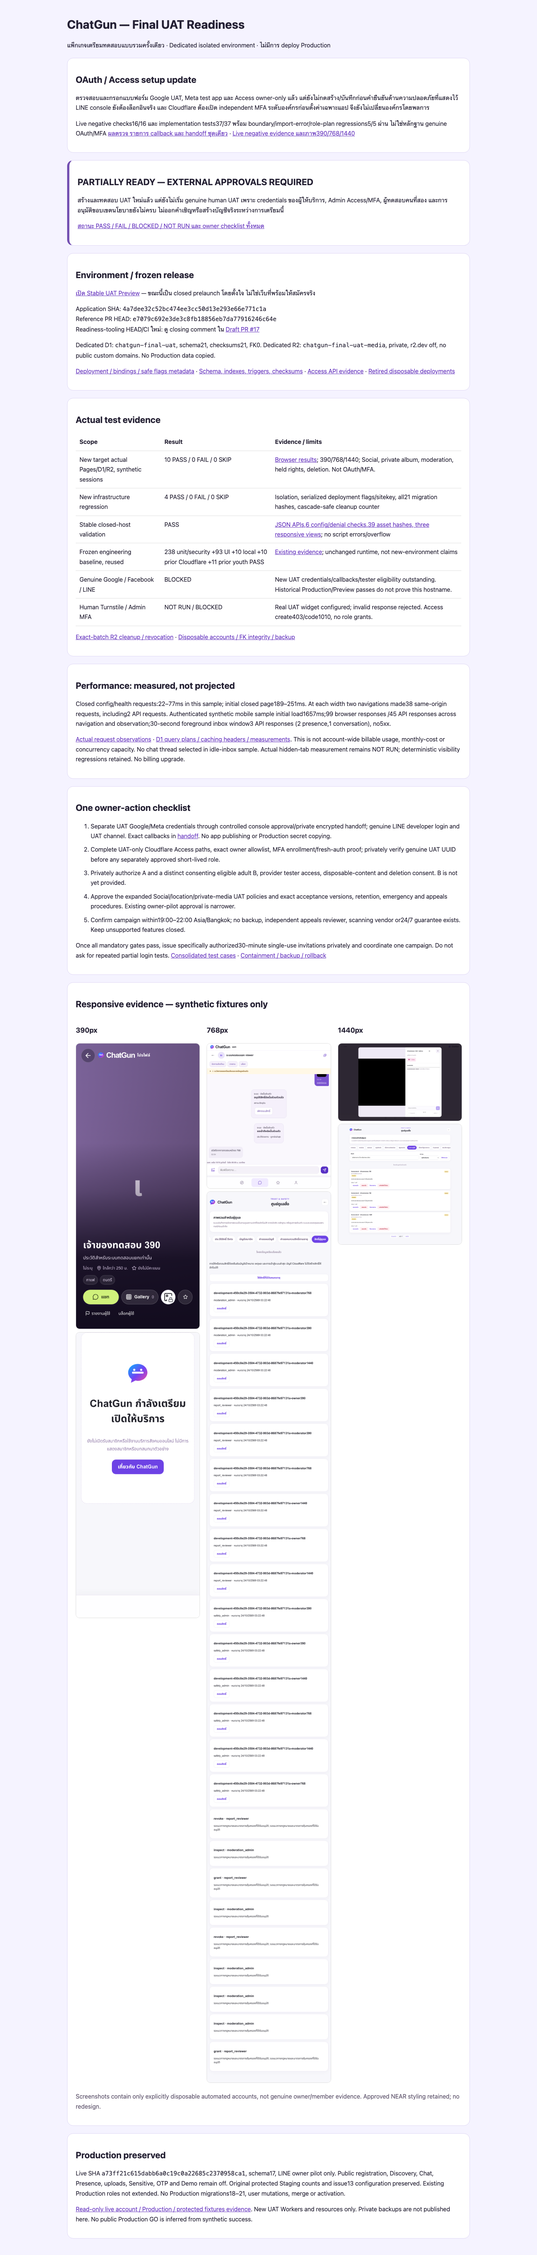
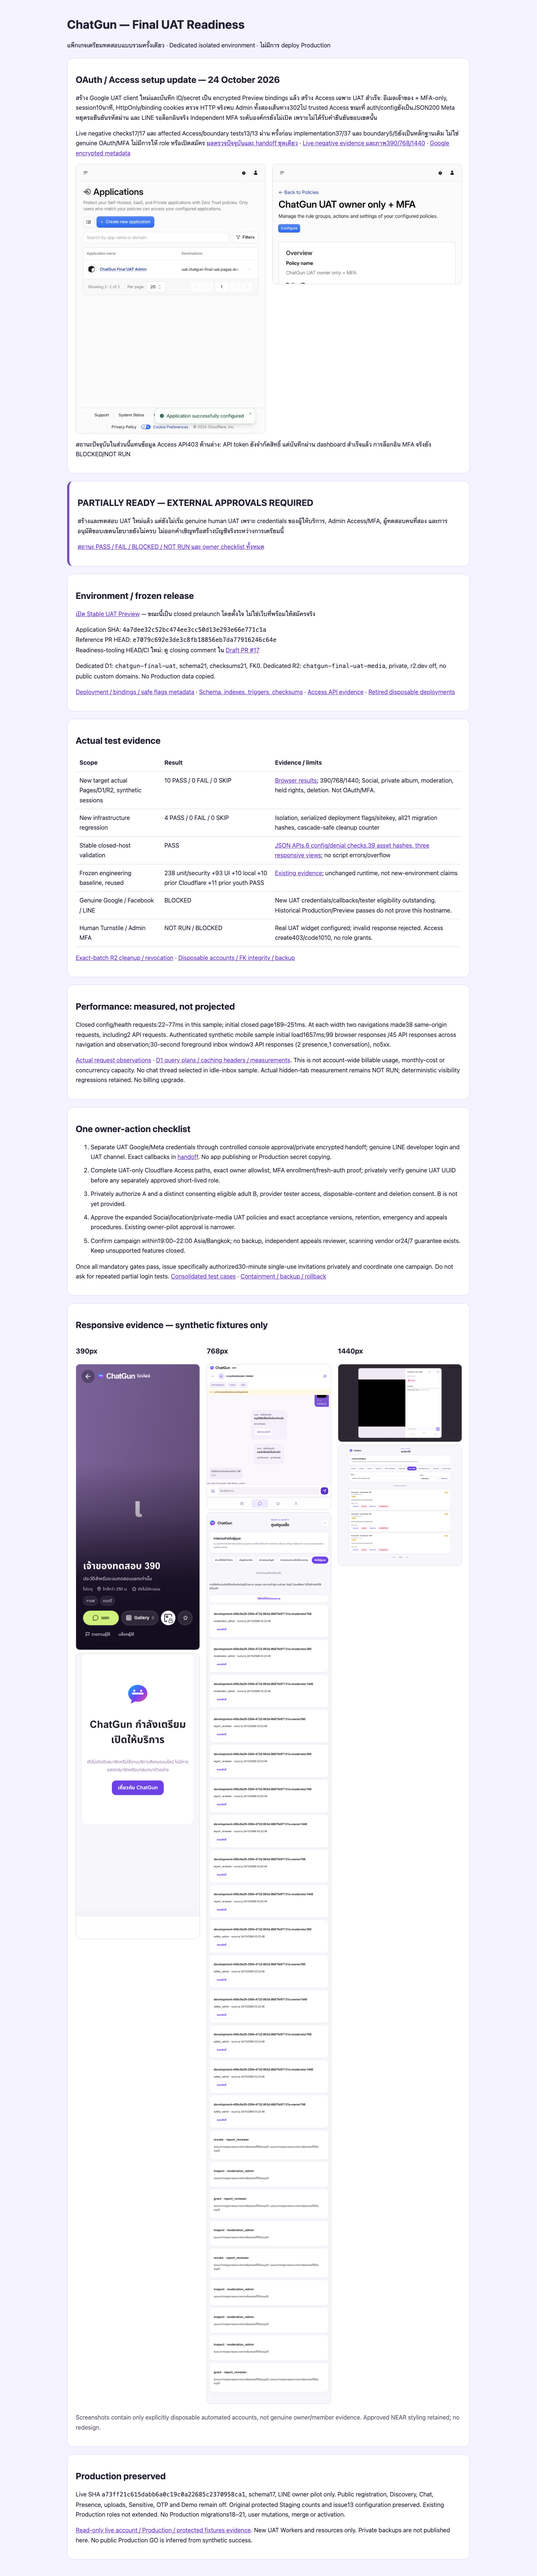
Provision isolated Google UAT credentials and owner MFA Access boundary

Changed region(s): [[0.125, 0.0, 0.875, 0.9338], [0.125, 0.9338, 0.8125, 0.996]]

diff --git a/docs/final-uat/readiness-report.html b/docs/final-uat/readiness-report.html
@@ -1,6 +1,6 @@
 <!doctype html><html lang="th"><meta charset="utf-8"><meta name="viewport" content="width=device-width,initial-scale=1"><title>ChatGun · Final UAT Readiness</title><style>body{margin:0;background:#f5f3ff;color:#242033;font:16px/1.65 system-ui,sans-serif}main{max-width:1080px;margin:auto;padding:24px}section{background:white;border:1px solid #ddd5f4;border-radius:16px;padding:22px;margin:20px 0}h1,h2{line-height:1.3}a{color:#6534be;overflow-wrap:anywhere}code{overflow-wrap:anywhere}img{max-width:100%;border:1px solid #ddd;border-radius:10px}.status{border-left:6px solid #7450b2}table{border-collapse:collapse;width:100%}td,th{text-align:left;padding:10px;border-bottom:1px solid #ddd;vertical-align:top}.scroll{overflow:auto}.images{display:grid;grid-template-columns:repeat(auto-fit,minmax(220px,1fr));gap:20px}.note{color:#655b72}li{margin:10px 0}</style><main>
 <h1>ChatGun — Final UAT Readiness</h1><p>แพ็กเกจเตรียมทดสอบแบบรวมครั้งเดียว · Dedicated isolated environment · ไม่มีการ deploy Production</p>
-<section><h2>OAuth / Access setup update</h2><p>ตรวจสอบและกรอกแบบฟอร์ม Google UAT, Meta test app และ Access owner-only แล้ว แต่ยังไม่กดสร้าง/บันทึกก่อนคำยืนยันด้านความปลอดภัยที่แสดงไว้ LINE console ยังต้องล็อกอินจริง และ Cloudflare ต้องเปิด independent MFA ระดับองค์กรก่อนตั้งค่าเฉพาะแอป จึงยังไม่เปลี่ยนองค์กรโดยพลการ</p><p>Live negative checks16/16 และ implementation tests37/37 พร้อม boundary/import-error/role-plan regressions5/5 ผ่าน ไม่ใช่หลักฐาน genuine OAuth/MFA <a href="oauth-access-setup/status.md">ผลตรวจ รายการ callback และ handoff ชุดเดียว</a> · <a href="oauth-access-setup/live-negative-security.json">Live negative evidence และภาพ390/768/1440</a></p></section>
+<section><h2>OAuth / Access setup update — 24 October 2026</h2><p>สร้าง Google UAT client ใหม่และบันทึก ID/secret เป็น encrypted Preview bindings แล้ว สร้าง Access เฉพาะ UAT สำเร็จ: อีเมลเจ้าของ + MFA-only, session10นาที, HttpOnly/binding cookies ตรวจ HTTP จริงพบ Admin ทั้งสองเส้นทาง302ไป trusted Access ขณะที่ auth/configยังเป็นJSON200 Meta หยุดรอยืนยันรหัสผ่าน และ LINE รอล็อกอินจริง Independent MFA ระดับองค์กรยังไม่เปิด เพราะไม่ได้รับคำยืนยันขอบเขตนั้น</p><p>Live negative checks17/17 และ affected Access/boundary tests13/13 ผ่าน ครั้งก่อน implementation37/37 และ boundary5/5ยังเป็นหลักฐานเดิม ไม่ใช่ genuine OAuth/MFA ไม่มีการให้ role หรือเปิดสมัคร <a href="oauth-access-setup/status.md">ผลตรวจปัจจุบันและ handoff ชุดเดียว</a> · <a href="oauth-access-setup/live-negative-security.json">Live negative evidence และภาพ390/768/1440</a> · <a href="oauth-access-setup/google-credential-metadata.json">Google encrypted metadata</a></p><div class="images"><img alt="Created dedicated UAT Access application" src="oauth-access-setup/access-application-created.jpg"><img alt="Saved owner-only MFA policy" src="oauth-access-setup/access-policy-mfa-only.jpg"></div><p>สถานะปัจจุบันในส่วนนี้แทนข้อมูล Access API403 ด้านล่าง: API token ยังจำกัดสิทธิ์ แต่บันทึกผ่าน dashboard สำเร็จแล้ว การล็อกอิน MFA จริงยัง BLOCKED/NOT RUN</p></section>
 <section class="status"><h2>PARTIALLY READY — EXTERNAL APPROVALS REQUIRED</h2><p>สร้างและทดสอบ UAT ใหม่แล้ว แต่ยังไม่เริ่ม genuine human UAT เพราะ credentials ของผู้ให้บริการ, Admin Access/MFA, ผู้ทดสอบคนที่สอง และการอนุมัติขอบเขตนโยบายยังไม่ครบ ไม่ออกคำเชิญหรือสร้างบัญชีจริงระหว่างการเตรียมนี้</p><p><a href="readiness-matrix.md">สถานะ PASS / FAIL / BLOCKED / NOT RUN และ owner checklist ทั้งหมด</a></p></section>
 <section><h2>Environment / frozen release</h2><p><a href="https://uat.chatgun-final-uat.pages.dev">เปิด Stable UAT Preview</a> — ขณะนี้เป็น closed prelaunch โดยตั้งใจ ไม่ใช่เว็บที่พร้อมให้สมัครจริง</p><p>Application SHA: <code>4a7dee32c52bc474ee3cc50d13e293e66e771c1a</code><br>Reference PR HEAD: <code>e7079c692e3de3c8fb18856eb7da77916246c64e</code><br>Readiness-tooling HEAD/CI ใหม่: ดู closing comment ใน <a href="https://github.com/Nattano-CDS/chatgun/pull/17">Draft PR #17</a></p><p>Dedicated D1: <code>chatgun-final-uat</code>, schema21, checksums21, FK0. Dedicated R2: <code>chatgun-final-uat-media</code>, private, r2.dev off, no public custom domains. No Production data copied.</p><p><a href="environment.json">Deployment / bindings / safe flags metadata</a> · <a href="schema-verification.json">Schema, indexes, triggers, checksums</a> · <a href="access-verification.json">Access API evidence</a> · <a href="deployment-retirement.json">Retired disposable deployments</a></p></section>
 <section><h2>Actual test evidence</h2><div class="scroll"><table><tr><th>Scope</th><th>Result</th><th>Evidence / limits</th></tr><tr><td>New target actual Pages/D1/R2, synthetic sessions</td><td>10 PASS / 0 FAIL / 0 SKIP</td><td><a href="full-system-cloud-browser.json">Browser results</a>; 390/768/1440; Social, private album, moderation, held rights, deletion. Not OAuth/MFA.</td></tr><tr><td>New infrastructure regression</td><td>4 PASS / 0 FAIL / 0 SKIP</td><td>Isolation, serialized deployment flags/sitekey, all21 migration hashes, cascade-safe cleanup counter</td></tr><tr><td>Stable closed-host validation</td><td>PASS</td><td><a href="http-browser-verification.json">JSON APIs,6 config/denial checks,39 asset hashes, three responsive views</a>; no script errors/overflow</td></tr><tr><td>Frozen engineering baseline, reused</td><td>238 unit/security +93 UI +10 local +10 prior Cloudflare +11 prior youth PASS</td><td><a href="../development-completion/test-summary.json">Existing evidence</a>; unchanged runtime, not new-environment claims</td></tr><tr><td>Genuine Google / Facebook / LINE</td><td>BLOCKED</td><td>New UAT credentials/callbacks/tester eligibility outstanding. Historical Production/Preview passes do not prove this hostname.</td></tr><tr><td>Human Turnstile / Admin MFA</td><td>NOT RUN / BLOCKED</td><td>Real UAT widget configured; invalid response rejected. Access create403/code1010, no role grants.</td></tr></table></div><p><a href="cloud-cleanup.json">Exact-batch R2 cleanup / revocation</a> · <a href="disposable-account-cleanup.json">Disposable accounts / FK integrity / backup</a></p></section>

diff --git a/docs/final-uat/oauth-access-setup/status.md b/docs/final-uat/oauth-access-setup/status.md
@@ -8,26 +8,26 @@ Application remains frozen at `4a7dee32c52bc474ee3cc50d13e293e66e771c1a`. Starti
 |---|---|---|
 | ChatGun account, dedicated DB/R2/Workers | PASS | Account rechecked; schema21, users/identities/sessions/invitations/grants/media0, FK0; private cleanup Workers and bindings rechecked |
 | Stable UAT / closed flags | PASS | Live release4a7dee3; OAuth/providers/admission/Social/media remain OFF; site key unchanged |
-| Google | BLOCKED | Authenticated project `chatgun`; External/Testing previously verified. Separate **ChatGun UAT** Web Application form populated with exact origin and Google callback; Create enabled, **not submitted** pending action-time security confirmation. Old clients untouched; no new secret obtained |
-| Meta | BLOCKED | Authenticated ChatGun parent1136950635489003 (not Production1732162668911193). **Create test app for ChatGun** dialog populated **ChatGun UAT**; Create enabled, **not submitted** pending the same confirmation. No app published, role added or secret revealed |
+| Google | CONFIGURED / human OAuth NOT RUN | Created separate **ChatGun UAT** web client in project `chatgun`, with exact UAT origin/callback. New JSON downloaded once, protected0600 outside Git, moved out of Downloads. New client ID/secret saved as encrypted **Preview-only** bindings; metadata read-back PASS. External/Testing remains restricted to existing test users. OAuth/admission flags remain OFF; no claim of actual callback success or new deployment binding activation |
+| Meta | BLOCKED human reauthentication | Clicked Create test app for **ChatGun UAT** under ChatGun parent1136950635489003 (not Production1732162668911193). Meta requires password re-entry before creation can complete. No password entered, no child app/secret claimed, no app published or role added |
 | LINE | BLOCKED | Existing console requires genuine LINE Business ID login. Handoff redirects to console root, NOT Production channel2012039306; no channel modified/created |
-| Access API403/code1010 | BLOCKED | Wrangler is OAuth-authenticated into exact ChatGun account; its displayed scopes have no Access Write/Edit. Dashboard is authenticated and exposes UAT creation UI. Missing write scope is demonstrated; dashboard save/hostname acceptance not claimed until submitted. No evidence this requires a paid upgrade |
-| Access dashboard | BLOCKED | New dedicated UAT form, exact moderation + Admin API paths, custom10m application session; unsaved owner-email Include + Authentication Method MFA Require policy. No policy/app saved pending action-time security confirmation |
+| Access API403/code1010 | API still BLOCKED; dashboard saved | Wrangler OAuth scopes have no Access Write/Edit; direct resource GET also403. Authenticated dashboard successfully saved separate UAT policy/app without API token expansion or billing changes |
+| Access dashboard | CONFIGURED / genuine MFA NOT RUN | Created **ChatGun Final UAT Admin**, app c2c866d3-3d41-410b-909f-4beac2683a17; policy8fbef132-a338-4ec4-8c7e-94b29749e0d6. Exact two UAT destinations accepted and read back; session10m. Policy read-back confirms owner email AND Authentication Method `mfa` only (no PIN alternative). HttpOnly and binding-cookie hardening saved; launcher hidden because wildcard-only domains have no launch URL. Anonymous HTTP requests to both Admin paths302 to exact trusted Access team. Public auth/config remains JSON200 |
 | Independent MFA | BLOCKED | Dashboard explicitly says organization MFA not turned on; app-level custom MFA unavailable. Official docs require organization-level enablement first. This is an additional organization-scope decision, not covered by silently changing UAT-only settings |
 | Admin mapping/roles | NOT RUN | No genuine UAT account exists. Owner UAT UUID must be privately verified and grant scope independently approved; no Production UUID/role copy or extension. Prepared parameterized UAT-only role PLAN, at most8hours, report_reviewer+safety_admin only, current eligible/onboarded member and10minute recent-auth guard; no executor run |
 | Turnstile | PASS configuration / NOT RUN human | Same dedicated real widget/site key/encrypted secret. Host/action checks unchanged; human challenge deferred to final campaign. No test-bypass keys |
-| Live negative security | PASS |16 checks; disabled starts, foreign origins, callbacks, invalid provider/session, disabled Admin/OTP; no users/flows/invitations fabricated |
+| Live negative security | PASS |17 checks after Access setup; disabled starts, foreign origins, callbacks, invalid provider/session, two Admin edge redirects and disabled OTP; no users/flows/invitations fabricated |
 | Implementation regressions | PASS |37 existing relevant auth/Access/invitation/LINE/middleware cases;5 new boundary/import-error/role-plan tests. Local mocked-provider tests are not genuine OAuth/MFA |
 | Responsive closed UAT | PASS |390/768/1440 actual-host screenshots; zero JS errors/overflow |
 | Genuine OAuth/MFA | NOT RUN | Final human campaign explicitly not started |
 
-The browser task requires confirmation immediately before creating new credentials/security-sensitive policies, even with earlier broad authorization. One consolidated confirmation request was presented for Google/Meta/LINE UAT provisioning and owner-only Access, plus the additional organization-level MFA decision. No repeated provider-login prompts were issued. Do not mistake prepared forms or stored credentials for provider/MFA success.
+Owner replied “ทำเลย” to the consolidated confirmation. Execution was limited to UAT-only credential/Access creation; organization-wide independent MFA was explicitly excluded in the execution commentary because the owner did not select that expanded scope. No Production role, UUID mapping, invitation or account was created. Do not mistake stored credentials, an MFA policy condition or an anonymous Access redirect for genuine provider/MFA success.
 
 ## Access diagnosis and route inventory
 
 This is not an account mix-up: Wrangler and dashboard show account23017b53386fb67fc62a52cdd017454c. Token scope listing lacks Access Write. Therefore use the authenticated dashboard rather than changing the plan or weakening Access. Dashboard also displayed an outage banner; official status at review showed the relevant recent incident resolved and live UAT APIs returned JSON200. Do not attribute the persistent scope error to an assumed outage.
 
-Exact UAT edge destinations prepared:
+Exact UAT edge destinations saved and anonymously verified:
 
 - `uat.chatgun-final-uat.pages.dev/app/moderation*` (including moderation.html)
 - `uat.chatgun-final-uat.pages.dev/api/admin/*`
@@ -44,13 +44,22 @@ Routine overview keeps fixed audit purpose `routine_admin_dashboard_access`; no 
 | Facebook | `https://uat.chatgun-final-uat.pages.dev/api/auth/oauth/facebook/callback` | `public_profile`, email OFF; server-side token/app validation + app-secret proof |
 | LINE | `https://uat.chatgun-final-uat.pages.dev/api/auth/oauth/line/callback` | `openid profile`, email OFF, nonce/S256 PKCE |
 
-Google JS origin: `https://uat.chatgun-final-uat.pages.dev`. Do not add a new test user or publish a provider. Preserve all current clients/channels/callbacks. New credential storage tool rejects known old client IDs, wrong UAT callback, public/published status, unprotected handoff files and overwriting existing credential keys. It patches only this project's **Preview** encrypted credentials; it never opens admission or grants roles. Positive live credential import is **NOT RUN**, since no new credentials have been created. Do not use a project-wide Wrangler secret command that may affect both environments.
+Google JS origin: `https://uat.chatgun-final-uat.pages.dev`. Do not add a new test user or publish a provider. Preserve all current clients/channels/callbacks. New credential storage tool rejects known old client IDs, wrong UAT callback, public/published status, unprotected handoff files and overwriting existing credential keys. It patches only this project's **Preview** encrypted credentials; it never opens admission or grants roles. Google positive encrypted import and read-back **PASS**; Meta/LINE imports NOT RUN. Do not use a project-wide Wrangler secret command that may affect both environments.
 
 ## Single minimal owner handoff
 
-1. Answer the already-presented consolidated action-time confirmation for creating the specifically named UAT credentials/owner-only Access app. Credentials go only to encrypted `chatgun-final-uat` Preview secrets; no secret should be pasted into chat/GitHub.
-2. Decide whether to authorize organization-level independent MFA activation (potential inherited defaults for other Access apps), or retain strict UAT-only scope and use an independently MFA-capable approved IdP later. Current organization settings remain unchanged. Enabling global MFA to support app MFA is a distinct scope decision, not a workaround for missing API token permissions.
-3. Complete genuine LINE developer login in the retained Chrome tab. No CAPTCHA/password/MFA/Terms action will be automated. Continue with a separate UAT channel under verified ChatGun ownership, never channel2012039306.
+1. In retained Chrome **Meta ChatGun** tab, complete the displayed password reauthentication yourself. Creation is waiting on this challenge; do not paste a password or client secret into chat/GitHub.
+2. In retained **LINE Business ID** tab, complete genuine developer login. Continue with a separate UAT channel under verified ChatGun ownership, never channel2012039306. No CAPTCHA/password/MFA/Terms action will be automated.
+3. Independent organization MFA remains OFF. If enabling it is intended, explicitly approve that organization-level change (potential inherited defaults for other Access apps). Otherwise retain the strict UAT owner+MFA requirement and provision an approved MFA-capable IdP before genuine Admin UAT. No weak single-factor fallback will be enabled.
+
+## Saved configuration evidence
+
+- [Google encrypted metadata](google-credential-metadata.json), no credential values.
+- [Created Access application](access-application-created.jpg).
+- [MFA-only owner policy](access-policy-mfa-only.jpg).
+- Access issuer: `https://tiny-violet-2021.cloudflareaccess.com`.
[1 lines of base64/hex data omitted]
+- Backend issuer/AUD/owner-UUID mapping and role activation remain pending genuine UAT owner identity confirmation. Standalone Admin and moderation service flags remain OFF.
 
 Later final-campaign gates remain unchanged: owner UAT identity/least-privilege grant confirmation, distinct consenting eligible adult B, expanded Social/location/media policy/operating approval,19:00–22:00Bangkok coverage window. No invitations are issued in this configuration phase.
 

diff --git a/docs/final-uat/readiness-matrix.md b/docs/final-uat/readiness-matrix.md
@@ -2,7 +2,7 @@
 
 Decision: **PARTIALLY READY — EXTERNAL APPROVALS REQUIRED**. Genuine human UAT has NOT started. No invitation, genuine account, owner role grant or Production activation was performed in this preparation.
 
-Latest OAuth/Access execution: [configuration status and consolidated handoff](oauth-access-setup/status.md). Google/Meta exact UAT forms are populated but not submitted pending action-time security confirmation; LINE console requires login. Wrangler lacks Access Write; independent MFA additionally requires an organization-level scope decision. New live negative checks16/16 and relevant implementation checks37/37 plus5 new boundary/import-error/role-plan regressions pass; these are not provider/MFA success.
+Latest OAuth/Access execution: [configuration status and consolidated handoff](oauth-access-setup/status.md). Separate Google UAT client created and NEW ID/secret stored encrypted in Preview only. Owner-only UAT Access app saved with MFA-only requirement and10m session; anonymous Admin paths redirect to trusted Access team. Meta creation requires password reauthentication; LINE console requires login. Independent organization MFA remains OFF pending explicit scope approval. Live negative checks17/17 and this turn's affected Access/boundary tests13/13 pass; previous37+5 implementation results remain evidence, not genuine OAuth/MFA success.
 
 Frozen application: `4a7dee32c52bc474ee3cc50d13e293e66e771c1a`. Initial PR #17 evidence HEAD: `e7079c692e3de3c8fb18856eb7da77916246c64e`. Closing PR comment records the eventual readiness-tooling HEAD and CI result; it is not a new application release.
 
@@ -22,10 +22,10 @@ Frozen application: `4a7dee32c52bc474ee3cc50d13e293e66e771c1a`. Initial PR #17 e
 | Stable closed-host HTTP/UI | PASS | JSON configs/health, anonymous denials, 39 asset hashes, 390/768/1440 screenshots, no overflow/script error |
 | Real Turnstile configuration | PASS | Newly created UAT widget; stable hostname only; matching creation pair saved encrypted; actual invalid response rejected |
 | Real human Turnstile proof | NOT RUN | Wait for the one consolidated authorized campaign; hostname/action/expiry success not inferred from synthetic tests |
-| Google UAT OAuth | BLOCKED | ChatGun project accessible, External / Testing, one existing test user. Separate UAT client/secret and exact callback not yet created; creation/private credential handoff requires controlled owner action |
-| Facebook UAT OAuth | BLOCKED | ChatGun app 1136950635489003 accessible, unpublished/development. Separate UAT test app/secret and participant app-role eligibility unconfirmed |
+| Google UAT OAuth | CONFIGURED / actual OAuth NOT RUN | Separate web client created with exact UAT origin/callback, NEW ID/secret encrypted Preview-only. External/Testing and existing test users retained; admission/OAuth OFF |
+| Facebook UAT OAuth | BLOCKED human reauthentication | Create test app submitted under ChatGun1136950635489003; password re-entry required before completion. No child app or secret claimed |
 | LINE UAT OAuth | BLOCKED | Developer console currently at Business ID login. Separate UAT channel/credentials/callback/tester authorization require interactive owner access |
-| Access application / MFA | BLOCKED | New app creation API returned HTTP403/code1010. Existing browser console accessible, team verified; no global MFA method enabled. Configure UAT-only app and MFA before genuine campaign |
+| Access application / MFA | APP CONFIGURED / genuine MFA BLOCKED | Dashboard creation succeeded despite scoped API403. Exact owner + MFA-only policy, two UAT Admin paths,10m session, HttpOnly+binding cookies saved. Anonymous302 verified. Independent organization MFA OFF; no MFA success claim |
 | Exact UAT owner subject / role mapping | BLOCKED | No genuine UAT account yet. Production UUID/roles NOT copied or extended. Exact UAT identity + bounded grant require separate confirmation |
 | Participant A | BLOCKED | Owner is designated; authorized UAT identity/provider eligibility and scope still need confirmation |
 | Participant B | BLOCKED | No separately consenting eligible distinct adult provided. Owner cannot act as both participants |
